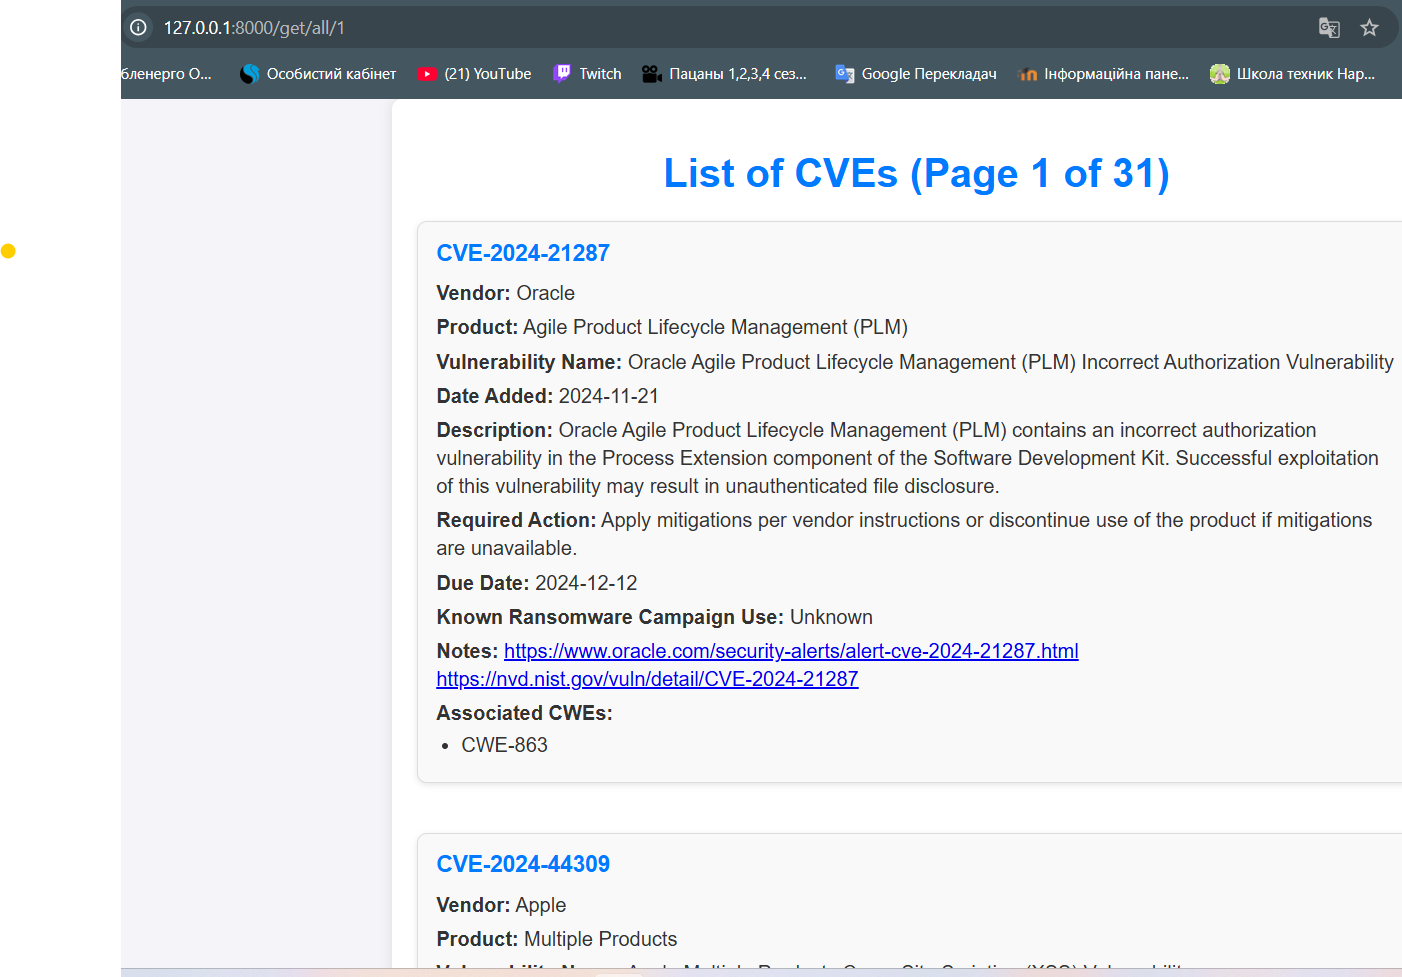
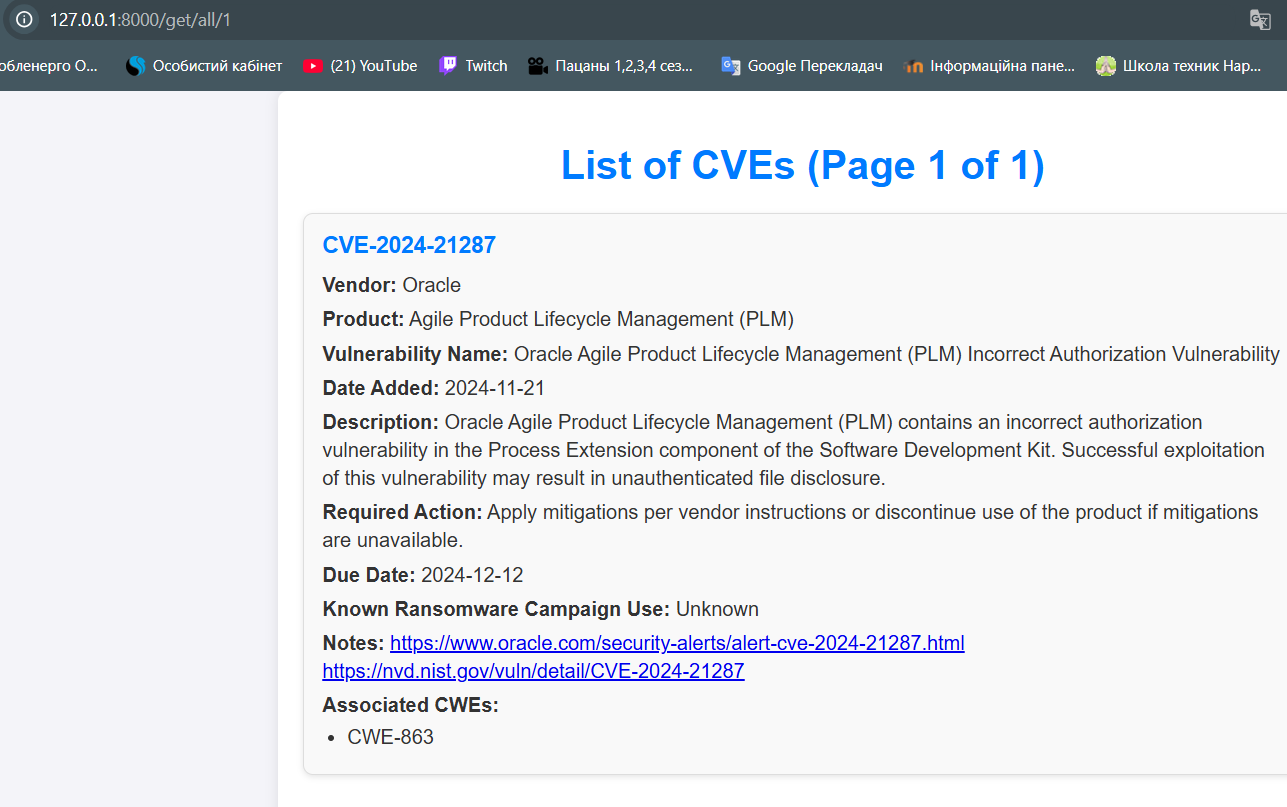
add last screen

diff --git a/main.py b/main.py
@@ -5,6 +5,7 @@ from fastapi.templating import Jinja2Templates
 from fastapi.requests import Request
 import os
 import json
+from datetime import datetime, timedelta
 
 app = FastAPI()
 JSON_FILE = "known_exploited_vulnerabilities.json"
@@ -46,15 +47,26 @@ def get_all(request: Request, page: int):
 
         vulnerabilities = data["vulnerabilities"]
 
+        # Поточна дата та дата 5 днів тому
+        current_date = datetime.utcnow()
+        date_threshold = current_date - timedelta(days=30)
+
+        # Фільтруємо уразливості за датою
+        recent_vulnerabilities = [
+            vuln for vuln in vulnerabilities
+            if datetime.strptime(vuln["dateAdded"], "%Y-%m-%d") >= date_threshold
+        ]
+
+        # Пагінація
         start_index = (page - 1) * 40
         end_index = start_index + 40
 
-        if start_index >= len(vulnerabilities) or page < 1:
+        if start_index >= len(recent_vulnerabilities) or page < 1:
             raise HTTPException(status_code=404, detail="Page not found")
 
-        paginated_data = vulnerabilities[start_index:end_index]
+        paginated_data = recent_vulnerabilities[start_index:end_index]
 
-        total_pages = (len(vulnerabilities) + 40 - 1) // 40
+        total_pages = (len(recent_vulnerabilities) + 40 - 1) // 40
 
         return templates.TemplateResponse(
             "getall.html",
@@ -72,6 +84,9 @@ def get_all(request: Request, page: int):
 
 @app.get("/get/new", response_class=HTMLResponse)
 def get_new(request: Request):
+    """
+    Return only new cve
+    """
     try:
         if not os.path.exists(JSON_FILE):
             raise FileNotFoundError(f"Where file?")
@@ -103,6 +118,9 @@ def get_new(request: Request):
 
 @app.get("/get/known", response_class=HTMLResponse)
 def get_known(request: Request):
+    """
+    Return only known cve
+    """
     try:
         if not os.path.exists(JSON_FILE):
             raise FileNotFoundError(f"Where file?")
@@ -133,6 +151,9 @@ def get_known(request: Request):
 
 @app.get("/get", response_class=HTMLResponse)
 def search_cve(request: Request, query: str = Query(..., min_length=1)):
+    """
+    Return only cve with query word
+    """
     try:
         if not os.path.exists(JSON_FILE):
             raise FileNotFoundError(f"Where file?")
